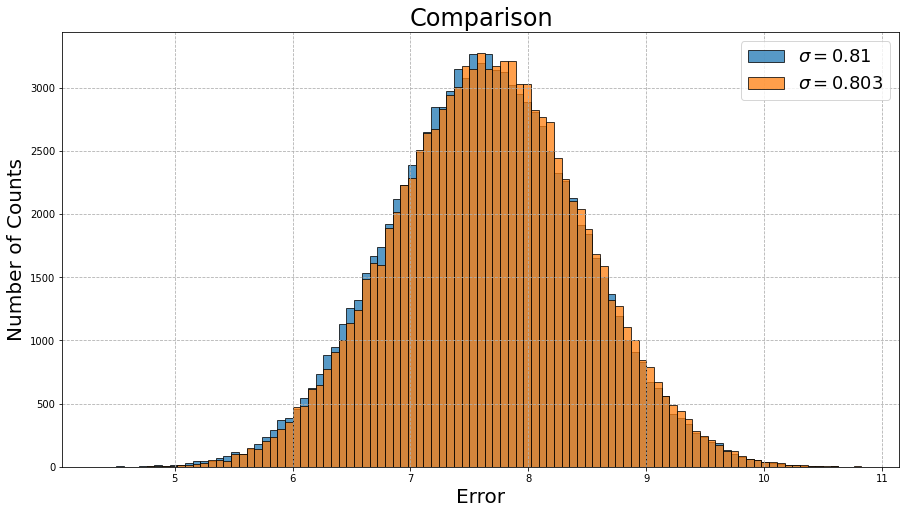
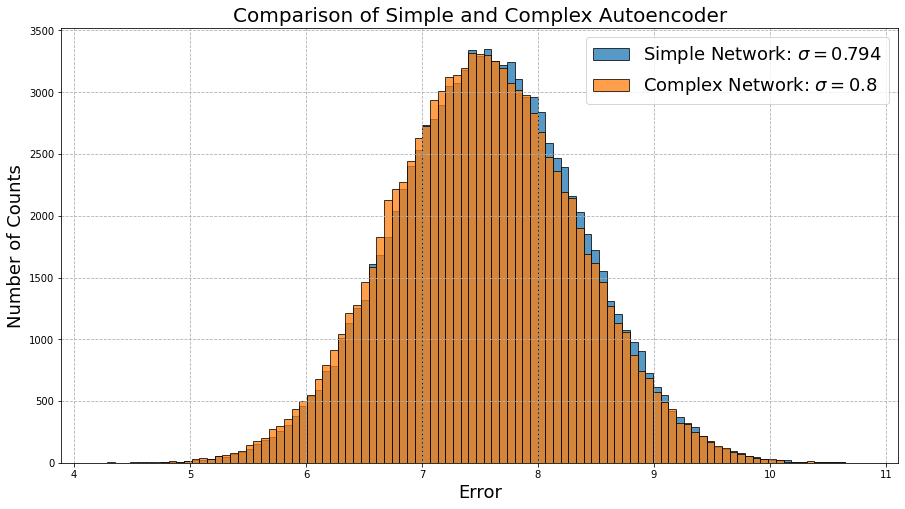
Finished Autoencoders Post

diff --git a/docs/_posts/2022-12-15-Fun-with-Autoencoders.md b/docs/_posts/2022-12-15-Fun-with-Autoencoders.md
@@ -5,18 +5,16 @@ date:   2022-12-15 12:13:00 -0500
 category: programming-projects
 author: William Bidle
 comments: true
-tags: artificial-intelligence machine-learning autoencoders python
+tags: artificial-intelligence machine-learning autoencoders python tensorflow data-visualization
 image: /assets/images/posts/Autoencoder.png
 
 ---
 
-Recently my girlfriend has been learning about autoencoders in a deep learning class she's taking for her master's degree and it's caught my interest. I decided to try my hand at creating some pretty basic autoencoder architectures, utilizing the Keras architechture from Tensorflow in Python. All of the code for the project and generated figures can be found in the <a href="https://github.com/WilliamBidle/Fun-with-Autoencoders/blob/master/Fun_with_Autoencoders.ipynb" target = "_blank">Fun_with_Autoencoders</a> Jupyter Notebook located on my Github.
+Recently my girlfriend has been learning about autoencoders in a deep learning class she's taking for her master's degree and it's caught my interest. I decided to try my hand at creating some pretty basic autoencoder architectures, utilizing the Keras architechture from Tensorflow in Python. All of the code for the project and generated figures can be found in the <a href="https://github.com/WilliamBidle/Fun-with-Autoencoders" target = "_blank">Fun_with_Autoencoders</a> Jupyter Notebook located on my Github.
 
-# What is an Autoencoder?
+# **What is an Autoencoder?**
 
 An autoencoder is a type of neural network that is used in artificial intelligence to create efficient encodings of unlabeled data. The network hopes to learn as much as it can about the fundamental aspects of a given set of data by picking out some of the more important features or patterns that may exist. Therefore an autoencoder works to dimensionally reduce a set of data, similar to what is done in Principal Component Analysis (PCA). Among many things, these types of models excel at facial recognition, word detection, and as we shall see towards the end of this post, image reconstruction. 
-
-# Imports
 
 We can begin by importing all of the necessary packages, such as Keras for the machine learning, NumPy for data manipulation, and Matplotlib for visualizations.
 
@@ -38,7 +36,7 @@ import itertools
 from tqdm.notebook import tnrange 
 ```
 
-# Crude Model with Uncorrelated Data
+# **Crude Model with Uncorrelated Data**
 
  Before we can even discuss building a model, it is important to have some idea of what type of data we will be using. Now usually these types of tasks are great for feature reduction of images, and while we will get to that later, it might be a good starting point to just use some easy to control, randomly generated data, whose features are essentially uncorrelated. While this might not lead to any super interesting or meaningful results, there are still a few things we can look at such as how the number of features impacts the performance, as well as how different models stack up against each other. So, using NumPy, let's create 1,000,000 data points with 32 features that contain random values between 0 and 1:
 
@@ -119,7 +117,7 @@ Where the sum runs over the number of features N (in our case N = 32), $$y_i$$ i
 error = np.sum(abs(test - decoded_test), axis = 1) # compute the absolute error across each feature 
 ```
 
-Let's visualize the computed errors over all the test data in a histogram:
+Let's visualize the computed errors over the entire test data set (100,000 instances) in a histogram:
 
 ```python
 fig, ax = plt.subplots(figsize = (15,8))
@@ -134,12 +132,12 @@ plt.show()
 
 ![image]({{site.url}}/assets/images/posts/Fun_with_Autoencoders_files/Fun_with_Autoencoders_9_0.png)
     
-A Gaussian distribution! This does somewhat make sense though as the model is trying to figure out patterns in data that ultimately has no patterns! and therefore can only do as good as the 
+A Gaussian distribution! This actually makes a lot of sense though, as the model is trying to figure out patterns in data that ultimately has no patterns! It can only try to minimize the average error across all instances, and there will be some instances where there error is much lower or much higher. 
 
 
-# More Complex Model with Uncorrelated Data
+# **More Complex Model with Uncorrelated Data**
 
-Now what if we tried the same thing with a more complex model? Let's use 4 encoding layers and 4 decoding layers, with each layer decreasing/increasing by a factor of 2 (i.e. 32 -> 16 -> 8 -> 4 -> 2 -> 4 -> 8 -> 16 -> 32). We will again use sigmoid activation functions as well as the same optimizer and loss function from the simple model:
+Now what if we tried the same thing with a more complex model? Would the results change at all? Let's use 4 encoding layers and 4 decoding layers, with each layer decreasing/increasing by a factor of 2 (i.e. 32 -> 16 -> 8 -> 4 -> 2 -> 4 -> 8 -> 16 -> 32). We will again use sigmoid activation functions as well as the same optimizer and loss function from the simple model:
 
 ```python
 input_dim = len(data[0]) # input dimension is equal to the number of features
@@ -231,23 +229,21 @@ ax.legend(fontsize = 18)
 plt.show()
 ```
 
-
-    
 ![image]({{site.url}}/assets/images/posts/Fun_with_Autoencoders_files/Fun_with_Autoencoders_17_0.png)
     
-They're almost identical! We might have naively expect this more complex model to outperform the simple model, but clearly it doesn't matter how complex the model is if the data has no discernable patterns. Once again, we are reminded how important the quality of data is in machine learning problems!
+They're almost identical! We might have naively expected the more complex model to outperform the simple model, but clearly it doesn't matter how complex the model is if the data has no discernable patterns. Scientifically, we would say that neither model is accurate (the error is high), nor precise (there is a lot of spread). Once again, we are reminded how important the quality of data is in machine learning problems!
 
-# Does the Number of Features Matter?
+# **Do the Number of Features Matter?**
 
-Before we move on from using data without any patterns, let's first get an idea of how important the number of features is when passed through our simple model of 1 encoding layer and 1 decoding layer.
+Before we move on from using data without any patterns (i.e., useless), let's look at how important the number of features is when passed through our simple model of 1 encoding layer and 1 decoding layer from before:
     
 ![image]({{site.url}}/assets/images/posts/Fun_with_Autoencoders_files/Fun_with_Autoencoders_21_0.png)
     
 Now this is interesting! The performance of the model becomes worse as the number of features is increased. Again this makes a lot of sense! Since our generated data is uncorrelated and impossible to deduce any patterns from, the error will increase exponentially as the number of features increases.
 
-# What About More Correlated Data?
+# **What About More Correlated Data?**
 
-Alright now that we have had our fun with some useless data, what happens when our data is a little more correlated? We will again generate our own data, but this time let's create a bunch of sinusoids with a random phase.
+Alright now that we have had our fun with some useless data, what happens when our data is a little more correlated? We will again generate our own data, but this time let's create a bunch of sinusoids with a random phase. This forces the data to have structure, as susequent data points will follow a pattern set by the sin function, and hopefully our autoencoder can pick up on it.
 
 ```python
 data = []
@@ -258,20 +254,23 @@ for j in range(1000000):
 data = np.array(data)
 ```
 
-Let's again look at how the number of features affects the output:
+We had some interesting results before looking at how the number of features affects the output, so let's see what happens here: 
 
 ![image]({{site.url}}/assets/images/posts/Fun_with_Autoencoders_files/Fun_with_Autoencoders_25_0.png)
     
+It seems as though we are seeing a similar pattern from before, although this time, we can notice that both the errors and their respective spread along the x-axis are much lower than their counterparts from the previous example. This most certianly is a direct result of the fact that this time the data is correlated. 
 
-# Now Do the Number of Layers Matter?
+# **Now Do the Number of Layers Matter?**
     
+Lastly, we can again look at whether or not the number of layers in the network matters. Last time we saw that a simple network and a complex network yielded almost the same performance, so will anything change this time?
+
 ![image]({{site.url}}/assets/images/posts/Fun_with_Autoencoders_files/Fun_with_Autoencoders_27_0.png)
-    
 
+Wow now this is actually really interesting! We are actually seeing that this time around for correlated data, the performance increases if we increase the complexity of the autoencoder. At 3 layers, the accuracy and performance is extremely good, with the results being within 1% of the actual values. The performance seems to get worse past this point, which may point to the network trying to pick up on features that may not actually matter within this dataset (i.e., sometimes the data might start negative, which doesn't really indicate anything important).
 
-# The MNIST Dataset
+# **The MNIST Dataset**
 
-As promised, now we will play with some actual data, and what better candidate than the "Hello World" dataset of machine learning - MNIST. The MNIST dataset is composed of hundreds of thousands of handwritten digits that are labeled with their corresponding digit. Let's load in the data, normalize the pixel values to be between 0 and 1, and reshape the images from their standard 28x28 format to a more machine learning friendly 1x784.
+Okay enough messing around. As promised, we will now play with some actual data, and what better candidate than the "Hello World" dataset of machine learning - MNIST. The MNIST dataset is composed of hundreds of thousands of handwritten digits that are labeled with their corresponding digit. Let's load in the data, normalize the pixel values to be between 0 and 1, and reshape the images from their standard 28x28 format to a more machine learning friendly 1x784.
 
 ```python
 (x_train, _), (x_test, _) = mnist.load_data()
@@ -291,7 +290,8 @@ As well as some of the images with the best performance:
 
 ![image]({{site.url}}/assets/images/posts/Fun_with_Autoencoders_files/Fun_with_Autoencoders_38_0.png)
 
-Interestingly enough, almost all of the images that contain a '1' are the easiest for the model to reconstruct, presumably since this number is the simplest of the given digits. There is no complex structure to disect, such as loops or curves, allowing for.
+Interestingly enough, almost all of the images that contain a '1' are the easiest for the model to reconstruct, presumably since this number is the simplest of the given digits, and doesn't really contain any complex structure, such as loops or curves. It seems as though it has the hardest time with any number that contains a loop, such as '0,' '6,' '8,' '9,' and occasionally '2' (depending on how it was written). 
+
 
 <script
   src="https://cdn.mathjax.org/mathjax/latest/MathJax.js?config=TeX-AMS-MML_HTMLorMML"

diff --git a/docs/_posts/2023-02-08-Alvvays.md b/docs/_posts/2023-02-08-Alvvays.md
@@ -1,0 +1,65 @@
+---
+layout: post
+title:  "Alvvays"
+date:   2023-02-08 10:03:00 -0500
+category: lets-talk-music
+author: William Bidle
+image: /assets/images/posts/Alvvays/Alvvays.jpg
+comments:  true
+tags: Alvvays indie indie-pop alternative artist-spotlight lets-talk-music
+---
+
+I have been absolutely obsessed with this band lately. Alvvays is the perfect love child of indie pop and 80's rock, and would easily dominate the charts with more recognition. They have the incredible ability to consistantly put out good music across different albums, and I am hoping to showcase some of their music here in this post. I look forward to seeing where they end up in the future as they continue to evolve and find their style. 
+
+<p style="text-align:center; font-size:30px; font-style: bold;">Alvvays (2014)</p>
+
+<center><img src="/assets/images/posts/Alvvays/Alvvays Album.jpg" style="width:35%;height:35%;"></center>
+
+<br>
+
+Alvvays' first, self-titled album was released in 2014 is as close as you can get to a perfect introduction into the talent of a band. I don't think there is a better way to start an album off than with _Adult Diversion_, easily one of my all-time favorite songs. Lead singer Molly Rankin's vocals immediately hook you, as her nonchalant vocal style pairs extremely well with the jangly guitars and roaring bass. The song is about having an unhealthy obsession with someone, which is pretty ironic considering how easy it is to become obsessed with the song itself. 
+
+The album's next song, _Archie, Marry Me_, is easily the band's most popular song. While the song comes across as light and romantic, it actually discusses some of the complex and unrealistic expectations to marry early and live lives that others expect you to. The song is supposedly following the early relationship of Rankin and guitarist Alec O'Hanley, and the expectations of them to marry so early on.
+
+_Atop a Cake_ continues to explore the theme of the complexities of marriage and matrimony. The song is a fantastic example of the band's ability to discuss a deep topic while absolutely jamming out. For such an upbeat and groovy song, it's actually tells quite a depressing story. Rankin sings that "you'd like us on top of a cake but you won't let me take a bite," which is very clearly an insight into a one-sided relationship, where their significant other won't let them have any input into a marriage they may not even want.
+
+<br>
+
+<center><iframe width="850" height="450" src="https://www.youtube.com/embed/rZHPCcFmEjc" title="Alvvays - Adult Diversion (Official Video)" frameborder="0" allow="accelerometer; autoplay; clipboard-write; encrypted-media; gyroscope; picture-in-picture; web-share" allowfullscreen></iframe></center>
+
+<br>
+
+<p style="text-align:center; font-size:30px; font-style: bold;">Anitsocialites (2017)</p>
+
+<center><img src="/assets/images/posts/Alvvays/Antisocialites Album.png" style="width:35%;height:35%;"></center>
+
+<br>
+
+It's always a difficult task to follow up such a strong first album, and many times artists can easily fall short of heavy expectations. While Antisocialites doesn't follow the exact formula as their previous album, the band managed to refine their sound and Rankin's vocals feel much more confident this time around. The opening tracks, _In Undertow_ and _Dreams Tonight_ explore the ideas of nostalgia and living life as though it were a dream, with a much more mellow vibe than the previous album's opening tracks. 
+
+However the mood immediate changes with their next track, _Plimsoll Punks_, and they practically pick right back up where they left off on the previous album with their funky indie pop style. After listening to this track a few times, you'll be feeling like a plimsol punk yourself. 
+
+Some of my other favorites off of the album are _Lollipop_, _Your Type_, and _Hey_. 
+
+<br>
+
+<center><iframe width="850" height="450" src="https://www.youtube.com/embed/kkoOvLYr0Pk" title="Alvvays - Plimsoll Punks (Live on KEXP)" frameborder="0" allow="accelerometer; autoplay; clipboard-write; encrypted-media; gyroscope; picture-in-picture; web-share" allowfullscreen></iframe></center>
+
+
+<br>
+
+<p style="text-align:center; font-size:30px; font-style: bold;">Blue Rev (2022)</p>
+
+<center><img src="/assets/images/posts/Alvvays/Blue Rev Album.png" style="width:35%;height:35%;"></center>
+
+<br>
+
+5 years is a long time to wait for new music from your favorite band, and very rarely do they ever come back sounding exactly as they had before. If you had someone listen to _Blue Rev_ and compared it to any of the band's previous albums, you may not even be able to recognize them as coming from the same band. Alvvays really redefined their style in their 5 year hiatus, and most certainly succeeded with what they found in a much louder and passionate sound.
+
+Rankin's vocal style also takes a huge turn throughout this album. She better showcases her range and passion for singing in songs such as _After the Earthquake_, which talks about the humanizing effect that natural disasters can have on us.
+
+_Pressed_ is easily the band's most interesting song to date. It brings a ton of energy right off the bat, and sounds unlike anything else they've put out before. The band's influence from The Smiths is in full force on this track, and Rankin sounds like an alternate timeline version of Morrisey. The song's only flaw is that it is way too short. 
+
+While the band still deserves way more popularity, they are starting to gain some great recognition, most notably when they headlined for The Tonight Show. I am really looking forward to see what lies in store for Alvvays in the future.
+
+<center><iframe width="850" height="450" src="https://www.youtube.com/embed/9oRXj7P_rEs" title="Alvvays: Belinda Says | The Tonight Show Starring Jimmy Fallon" frameborder="0" allow="accelerometer; autoplay; clipboard-write; encrypted-media; gyroscope; picture-in-picture; web-share" allowfullscreen></iframe></center>

diff --git a/docs/tag/indie-pop.md b/docs/tag/indie-pop.md
@@ -1,5 +1,5 @@
 ---
 layout: tagpage
-tag: Silversun-Pickups
+tag: indie-pop
 robots: noindex
 ---

diff --git a/docs/tag/tensorflow.md b/docs/tag/tensorflow.md
@@ -1,5 +1,5 @@
 ---
 layout: tagpage
-tag: alt-rock
+tag: tensorflow
 robots: noindex
 ---

diff --git a/docs/tag/data-visualization.md b/docs/tag/data-visualization.md
@@ -1,0 +1,5 @@
+---
+layout: tagpage
+tag: data-visualization
+robots: noindex
+---

diff --git a/docs/tag/lets-talk-music.md b/docs/tag/lets-talk-music.md
@@ -1,0 +1,5 @@
+---
+layout: tagpage
+tag: lets-talk-music
+robots: noindex
+---
